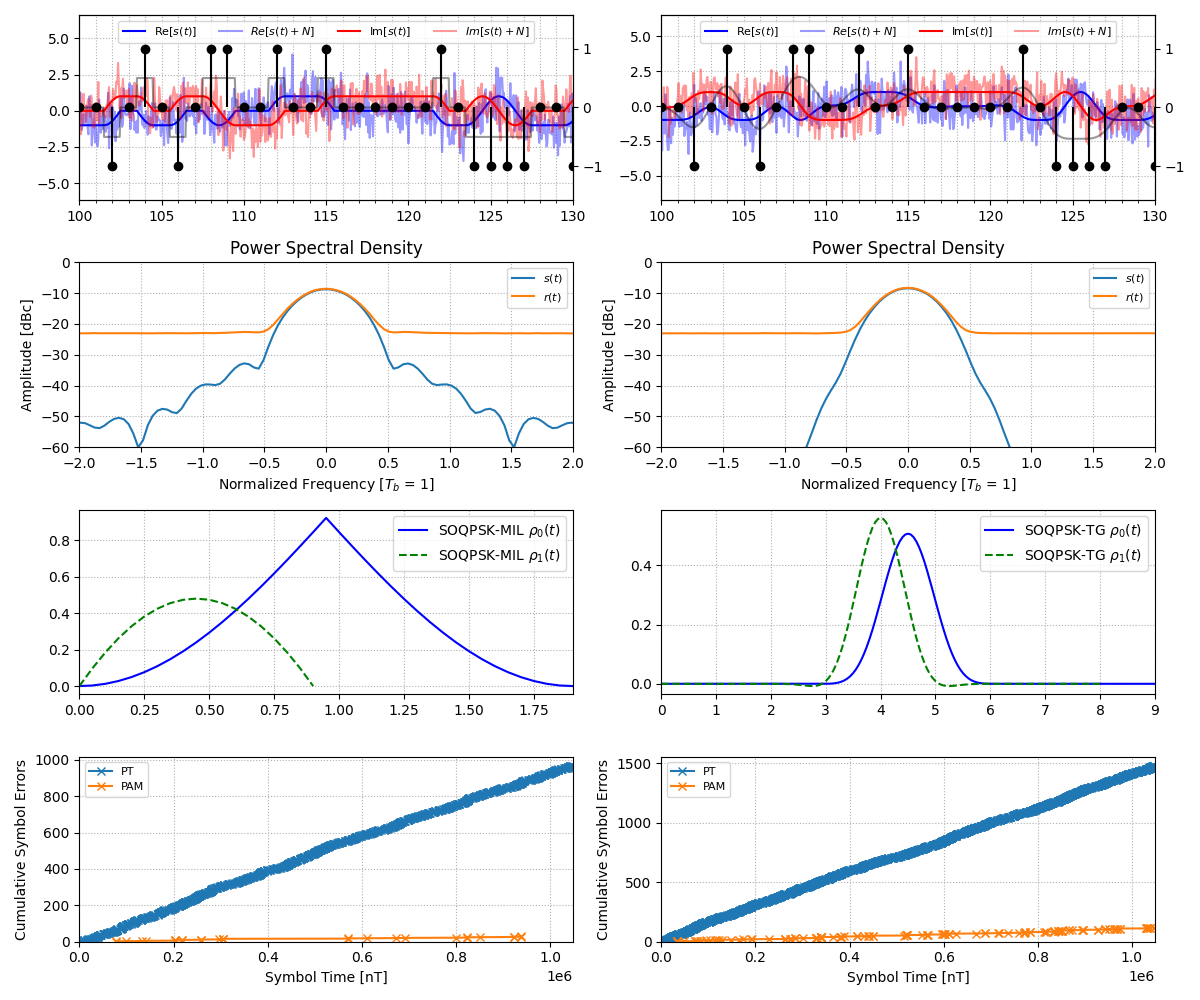
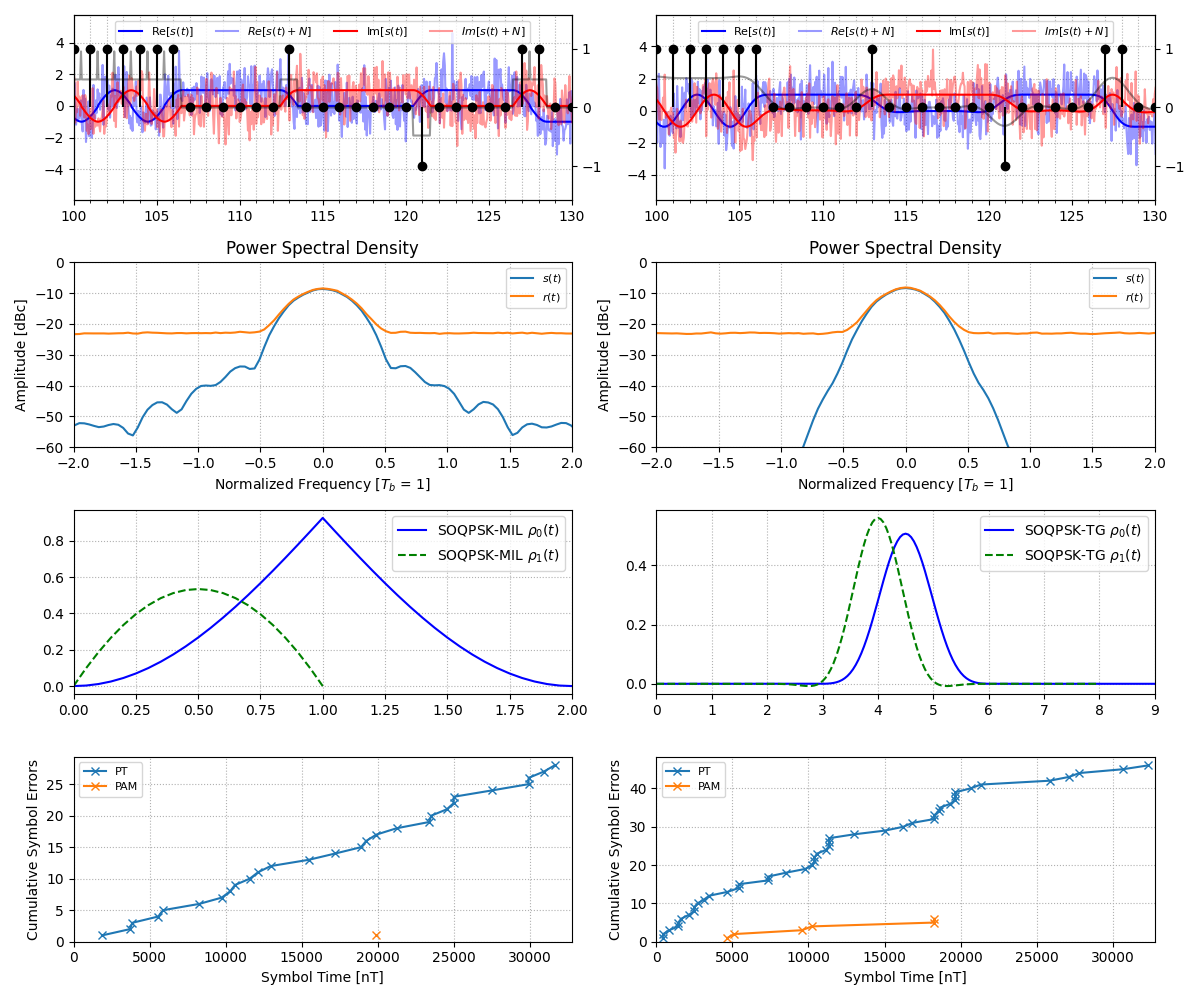
Lint, leave information in docstring regarding a likely implementation issue.

diff --git a/waveforms/cpm/soqpsk/pulse_filters.py b/waveforms/cpm/soqpsk/pulse_filters.py
@@ -70,14 +70,29 @@ def freq_pulse_soqpsk_b(sps: int = 8) -> NDArray[np.float64]:
 def freq_pulse_soqpsk_mil(sps: int = 8) -> NDArray[np.float64]:
     """Generates a SOQPSK-MIL frequency pulse.
 
+    The below implementation should work, but looks wrong.
+    Perhaps it should be generating length sps filter after all.
+
+    freq_pulse_soqpsk(b=0, t1=0.25, t2=0, rho=0, sps=sps)
+
+    On the contrary, SOQPSK-MIL looks wrong in the PAM
+    de-composition graphs when using the sps-length filter of
+    0.5 points.  If the below is indeed the correct filter
+    then clearly something is incorrect in the PAM decomposition
+    implementation...
+
+    np.ones(sps, dtype=np.float64) / 2
+
+    For now we will revert to monke as I intend to get this PAM
+    de-composition implemented correctly.
+
     Args:
         sps (int): Samples per symbol time
 
     Returns:
         NDArray[np.float64]: SOQPSK-MIL frequency pulse.
     """
-    # return freq_pulse_soqpsk(b=0, t1=0.25, t2=0, rho=0, sps=sps)
-    return np.ones(sps, dtype=np.float64) / 2
+    return freq_pulse_soqpsk(b=0, t1=0.25, t2=0, rho=0, sps=sps)
 
 
 def freq_pulse_soqpsk_tg(sps: int = 8) -> NDArray[np.float64]:

diff --git a/examples/soqpsk_example.py b/examples/soqpsk_example.py
@@ -63,8 +63,8 @@ if __name__ == "__main__":
         )
         normalized_time /= 2  # SOQPSK symbols are spaced at T/2
         eye_diagram(
-            normalized_time[:normalized_time.size//4],
-            modulated_signal[:normalized_time.size//4],
+            normalized_time[: normalized_time.size // 4],
+            modulated_signal[: normalized_time.size // 4],
             sps=sps,
             modulo=4,
             eye_ax=(eye_real_ax, eye_imag_ax),

diff --git a/examples/soqpsk_detection.py b/examples/soqpsk_detection.py
@@ -24,7 +24,7 @@ from waveforms.viterbi.algorithm import SOQPSKTrellisDetector
 # Set seeds so iterations on implementation can be compared better
 rng = np.random.Generator(np.random.PCG64(seed=1))
 
-PN_DEGREE = 20
+PN_DEGREE = 15
 DATA_GEN = PNSequence(PN_DEGREE)
 DATA_BUFFER = np.packbits([DATA_GEN.next_bit() for _ in range(2**PN_DEGREE - 1)])
 j = complex(0, 1)
